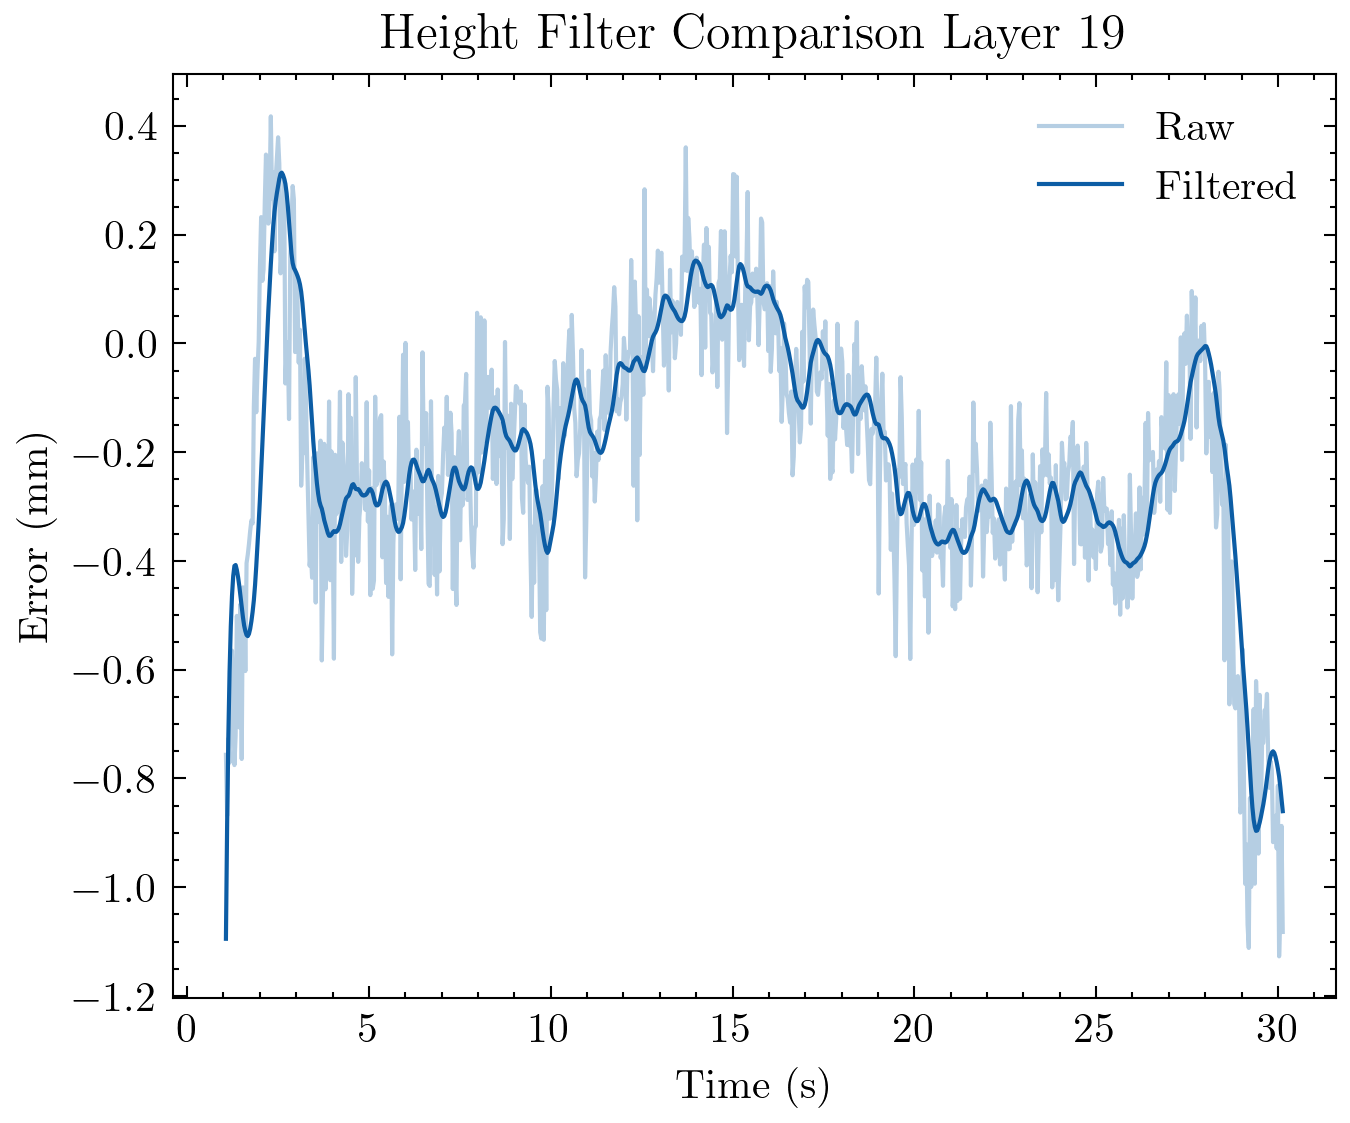
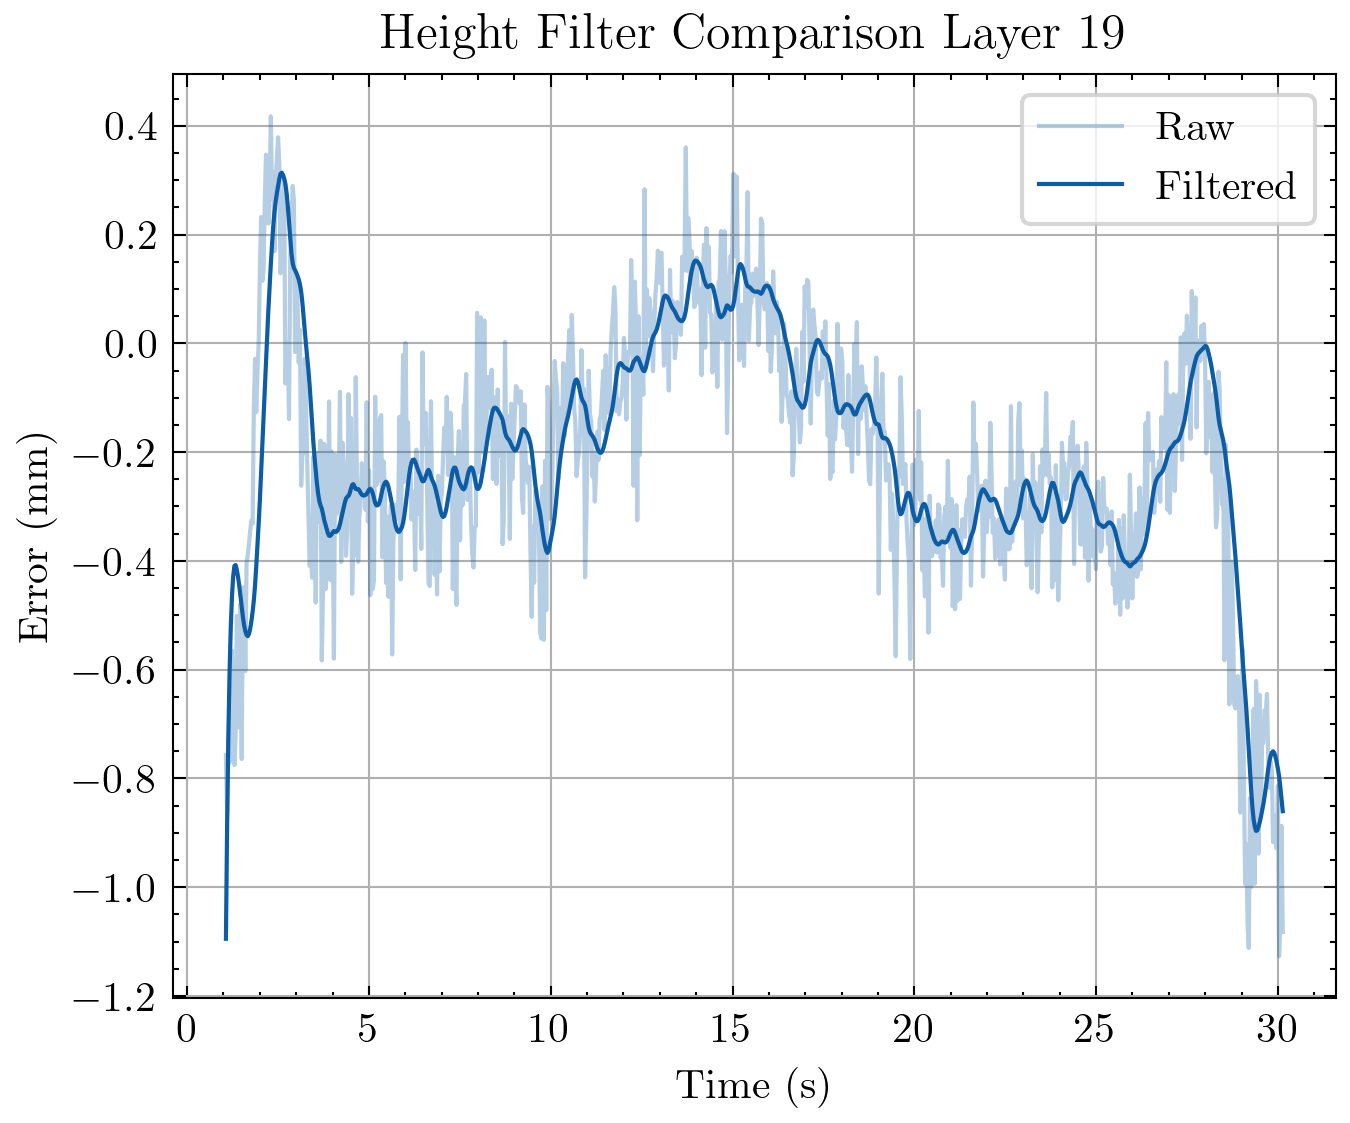
updated AIM figures

diff --git a/insitu_correction/vel_plot.py b/insitu_correction/vel_plot.py
@@ -52,8 +52,20 @@ for layer in [101,103]:
     ax1.set_ylabel("Velocity (mm/s)")
     ax2.set_ylabel("Error (mm)")
     ax1.set_title(f"Layer {layer-82} Velocity")
-    ax1.legend()
-    ax2.legend()
+    ax1.legend(facecolor='white', 
+           framealpha=0.8,
+           frameon=True,
+           # loc='lower center',
+           # ncol=2,
+           # bbox_to_anchor=(0.5,-0.8)
+           )
+    ax2.legend(facecolor='white', 
+           framealpha=0.8,
+           frameon=True,
+           # loc='lower center',
+           # ncol=2,
+           # bbox_to_anchor=(0.5,-0.8)
+           )
     ax1.set_ylim(2.2, 8.5)
     ax2.set_ylim(-2,0.6)
     ax2.grid()

diff --git a/insitu_correction/filter_comp.py b/insitu_correction/filter_comp.py
@@ -154,7 +154,15 @@ for idx,flame in enumerate(flame_set):
             ax.set_xlabel("Time (s)")
             ax.set_ylabel("Error (mm)")
             ax.set_title(f"Height Filter Comparison Layer {layer-82}")
-            ax.legend(["Raw","Filtered"])
+            ax.legend(["Raw","Filtered"],
+                      facecolor='white', 
+                      framealpha=0.8,
+                      frameon=True,
+           # loc='lower center',
+           # ncol=2,
+           # bbox_to_anchor=(0.5,-0.8)
+           )
+            ax.grid()
             fig.savefig('filter_comp_19.png', dpi=fig.dpi)
             plt.show()
 

diff --git a/insitu_correction/filter_comp_avg.py b/insitu_correction/filter_comp_avg.py
@@ -13,7 +13,7 @@ def rms_error(data):
     n = 0
     num = 0
     for i in data:
-        if not np.isnan(i): 
+        if not np.isnan(i):
             num = num + i**2
             n+=1
     return np.sqrt(num/n)
